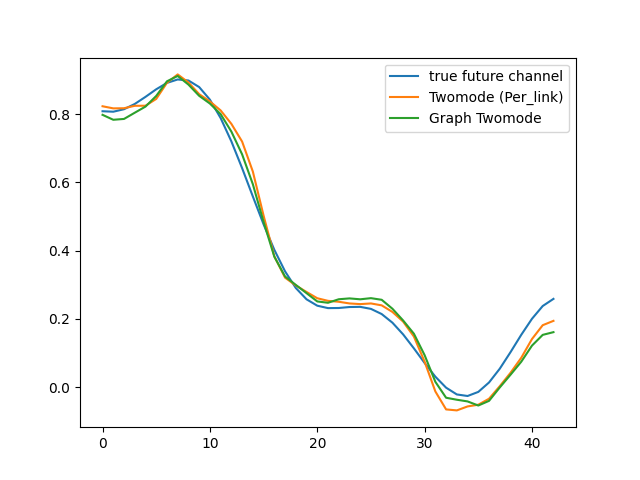
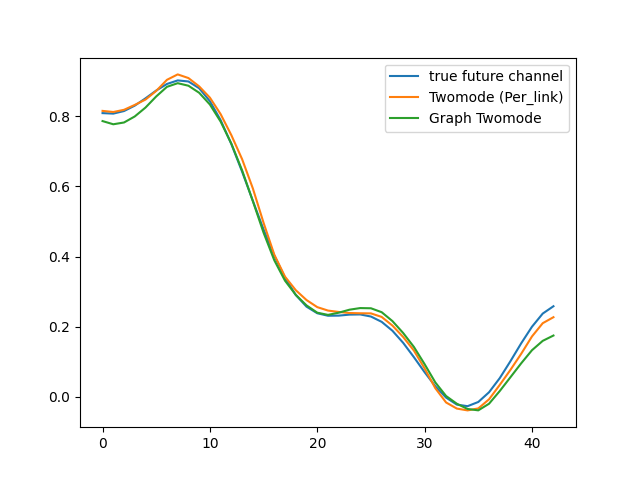
fixing channel estimation SNR to 15 for now. will change to a per-SNR channel estimation when generating final results

diff --git a/dmimo/dmimo_chanpred.py b/dmimo/dmimo_chanpred.py
@@ -182,7 +182,7 @@ class MU_MIMO(Model):
             # Get CSI history
             # TODO: optimize channel estimation and optimization procedures (currently very slow)
             h_freq_csi_history = rc_predictor.get_csi_history(self.cfg.first_slot_idx, self.cfg.csi_delay,
-                                                                self.rg_csi, dmimo_chans)
+                                                                self.rg_csi, dmimo_chans, fix_SNR=15)
             
             # Do channel prediction
             # Get Vanilla RC NMSE for comparison
@@ -293,6 +293,11 @@ class MU_MIMO(Model):
             plt.plot(np.real(h_freq_csi_twomode_per_link_demapped[0,0,rx_ant,0,tx_ant,ofdm_sym,:]), label="Two-Mode (All) WESN channel demapped")
             plt.legend()
             plt.savefig('rbs demapped to scs comparison')
+
+            pred_nmse_twomode_wesn_per_link = self.nmse(h_freq_csi_true_sc_granularity[0,...], h_freq_csi_twomode_per_link_demapped[0,...])
+            print("Two-Mode (Per-Link) WESN NMSE: ", pred_nmse_twomode_wesn_per_link)
+
+            hold = 1
 
 
 
@@ -749,7 +754,7 @@ class MU_MIMO(Model):
 
 
         
-        SNR_range = np.arange(20, 22, 4)
+        SNR_range = np.arange(0, 22, 4)
         uncoded_bers = 0.5*np.ones((8, SNR_range.shape[0]))
         
         for snr_idx, snr in enumerate(SNR_range):
@@ -763,8 +768,8 @@ class MU_MIMO(Model):
             for curr_method in range(uncoded_bers.shape[0]):
                 
                 if curr_method == 0:        # Perfect
-                    h_freq_csi = h_freq
-                    h_freq_csi = tf.reshape(h_freq_csi, (h_freq_csi.shape[0], self.num_rx_ue, -1, *h_freq_csi.shape[3:]))
+                    h_freq_reshaped = tf.reshape(h_freq, (h_freq.shape[0], self.num_rx_ue, -1, *h_freq.shape[3:]))
+                    h_freq_csi = h_freq_reshaped
                 elif curr_method == 1:      # Outdated
                     # h_freq_csi = h_freq_csi_outdated
                     continue

diff --git a/dmimo/channel/gesn_pred_freq_dmimo.py b/dmimo/channel/gesn_pred_freq_dmimo.py
@@ -150,7 +150,7 @@ class gesn_pred_freq_dmimo:
             self.RLS_lambda = self.rc_config.RLS_lambda
             self.RLS_w = 1
 
-    def get_csi_history(self, first_slot_idx, csi_delay, rg_csi, dmimo_chans):
+    def get_csi_history(self, first_slot_idx, csi_delay, rg_csi, dmimo_chans, fix_SNR=None):
         """
         Returns a tf tensor of shape:
         [history_length, batch_size, num_rx, num_rx_ant, num_tx, num_tx_ant, num_ofdm_sym, fft_size]
@@ -165,12 +165,15 @@ class gesn_pred_freq_dmimo:
             # h_freq_csi has shape [batch_size, num_rx, num_rx_ant, num_tx, num_txs_ant, num_ofdm_sym, fft_size]
             folder_path = "ns3/channel_estimates_{}_{}_rx_{}_tx_{}".format(self.rc_config.mobility, self.rc_config.drop_idx,
                                                                                                 self.N_r, self.N_t)
-            file_path = "{}/dmimochans_{}".format(folder_path, slot_idx)
+            if fix_SNR is not None:
+                file_path = "{}/dmimochans_{}_snr_{}".format(folder_path, slot_idx, fix_SNR)
+            else:
+                file_path = "{}/dmimochans_{}_snr_not_fixed".format(folder_path, slot_idx)
             try:
                 data = np.load("{}.npz".format(file_path))
                 h_freq_csi = data['h_freq_csi']
             except:
-                h_freq_csi, _ = lmmse_channel_estimation(dmimo_chans, rg_csi, slot_idx=slot_idx)
+                h_freq_csi, _ = lmmse_channel_estimation(dmimo_chans, rg_csi, slot_idx=slot_idx, fix_snr=fix_SNR)
                 os.makedirs(folder_path, exist_ok=True)
                 np.savez(file_path, h_freq_csi=h_freq_csi)
             indices = tf.constant([[loop_idx]])
